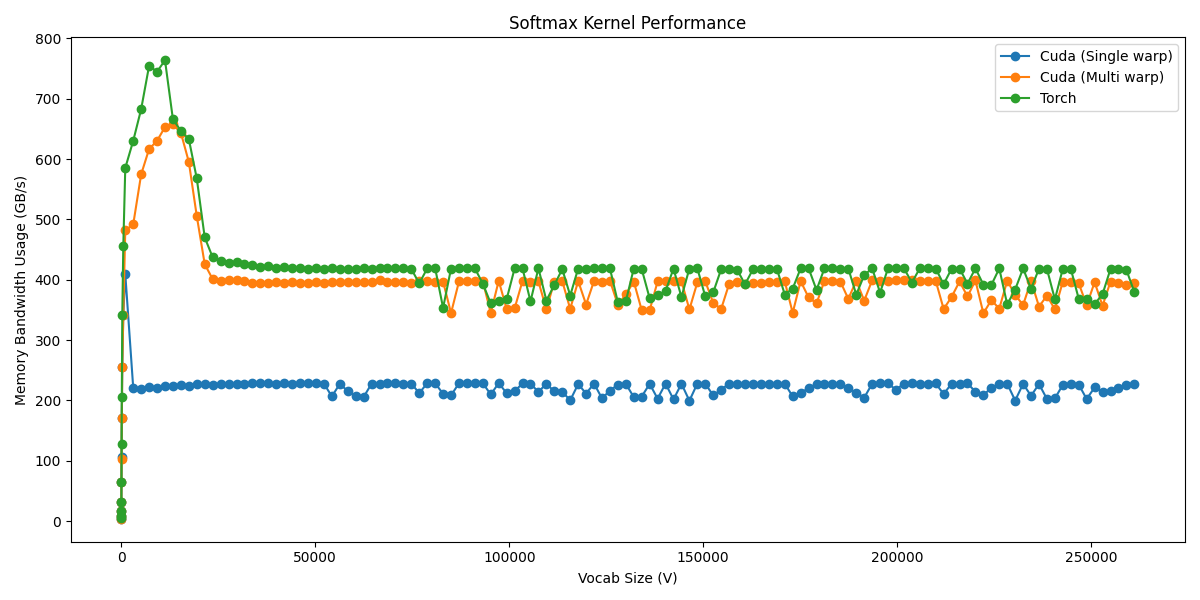
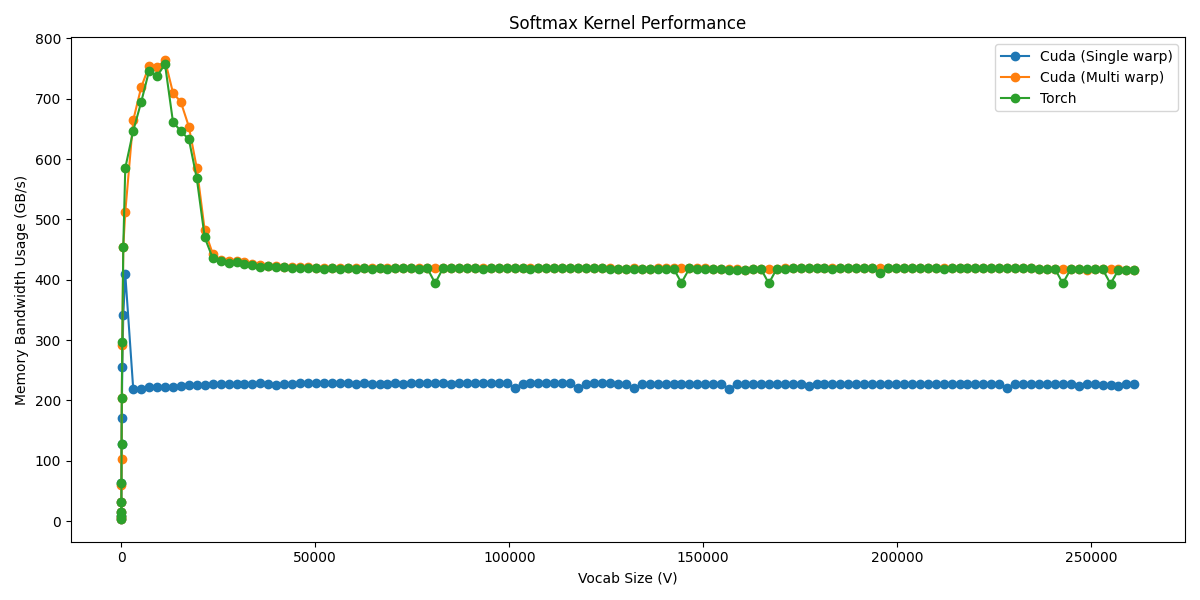
Final softmax optimizations wo online softmax

diff --git a/cuda/softmax/torch_launcher.py b/cuda/softmax/torch_launcher.py
@@ -13,7 +13,7 @@ softmax_cuda_kernel = torch.utils.cpp_extension.load(
     extra_cuda_cflags=["-O2 -diag-suppress 2464"]
 )
 
-x = torch.randn((2, 64, 1000), device=device)
+x = torch.randn((2, 64, 1024), device=device)
 out_cuda = torch.empty_like(x)
 softmax_cuda_kernel.softmax_forward(x, out_cuda, 2)
 out_torch = torch.nn.functional.softmax(x, dim=-1)
